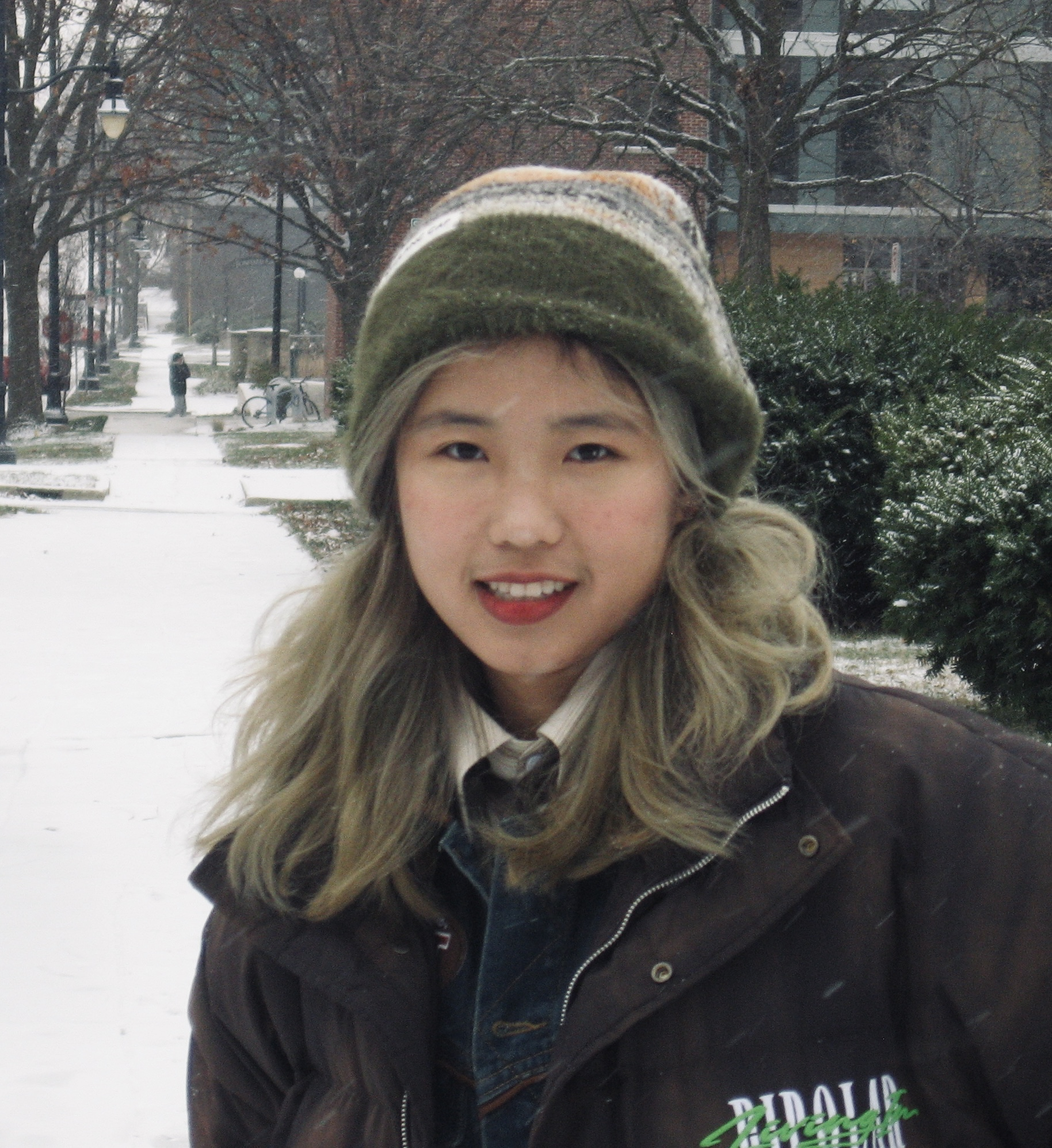
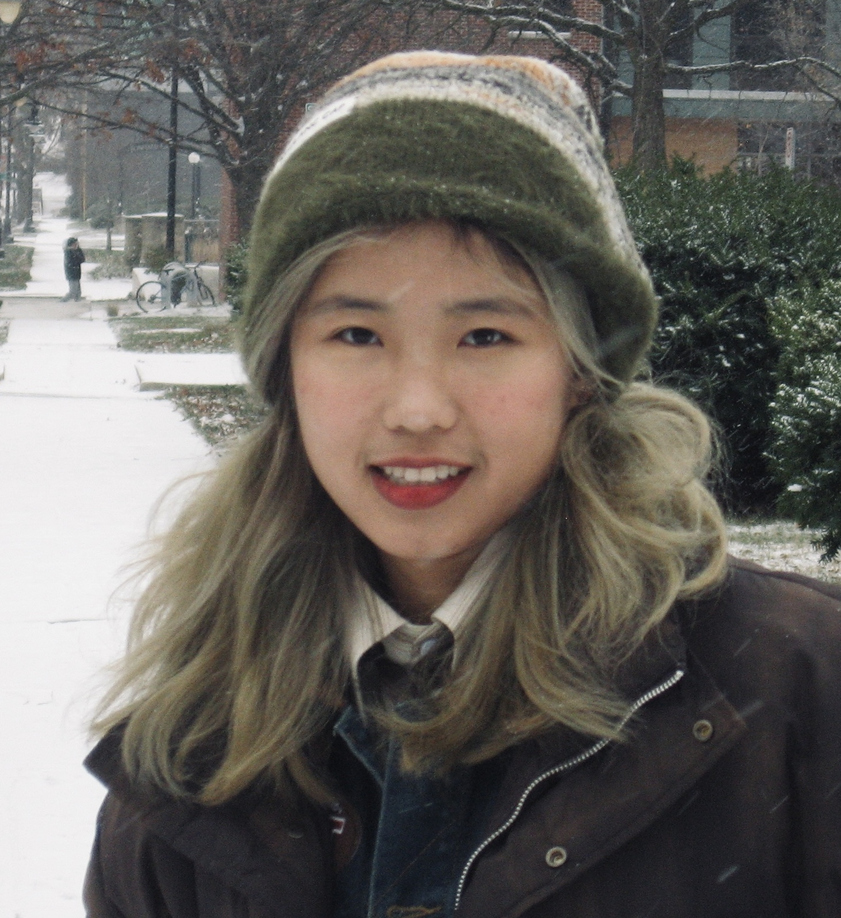
news

diff --git a/_pages/about.md b/_pages/about.md
@@ -26,7 +26,7 @@ latest_posts:
   limit: 3 # leave blank to include all the blog posts
 ---
 
-I am a 1st year PhD student in Geography & Geographic Information Science at the [University of Illinois Urbana-Champaign(UIUC)](https://illinois.edu) under the guidance of [Prof.Shaowen Wang](https://ggis.illinois.edu/directory/profile/shaowen). I am currently a research assistant at the [CyberGIS Center for Advanced Digital and Spatial Studies](https://cybergis.illinois.edu).
+I am a 1st year Ph.D. student in Geography & Geographic Information Science at the [University of Illinois Urbana-Champaign(UIUC)](https://illinois.edu) under the guidance of [Prof.Shaowen Wang](https://ggis.illinois.edu/directory/profile/shaowen). I am currently a research assistant at the [CyberGIS Center for Advanced Digital and Spatial Studies](https://cybergis.illinois.edu).
 My research focuses on large language models, machine learning, continual learning, and applications in spatial analysis, remote sensing, etc.
 
 Before joining UIUC for my PhD, I earned my Bachelor’s(Geographic Information Science) and Master’s degree(Survey and Mapping) from [Central South University](https://en.csu.edu.cn), where I conducted research on _Open world high-resolution remote sensing image scene classification based on memory mechanism_ under the guidance of [Prof. Haifeng Li](https://scholar.google.com/citations?hl=en&user=51p_SJAAAAAJ).

diff --git a/_news/announcement_3.md b/_news/announcement_3.md
@@ -1,0 +1,8 @@
+---
+layout: post
+date: 2025-06-17 16:11:00-0400
+inline: true
+related_posts: false
+---
+
+I'll be attending the amazing I-GUIDE Forum 2025 Geospatial AI and Innovation for Sustainability Solutions. 👋 June 17-19, 2025
